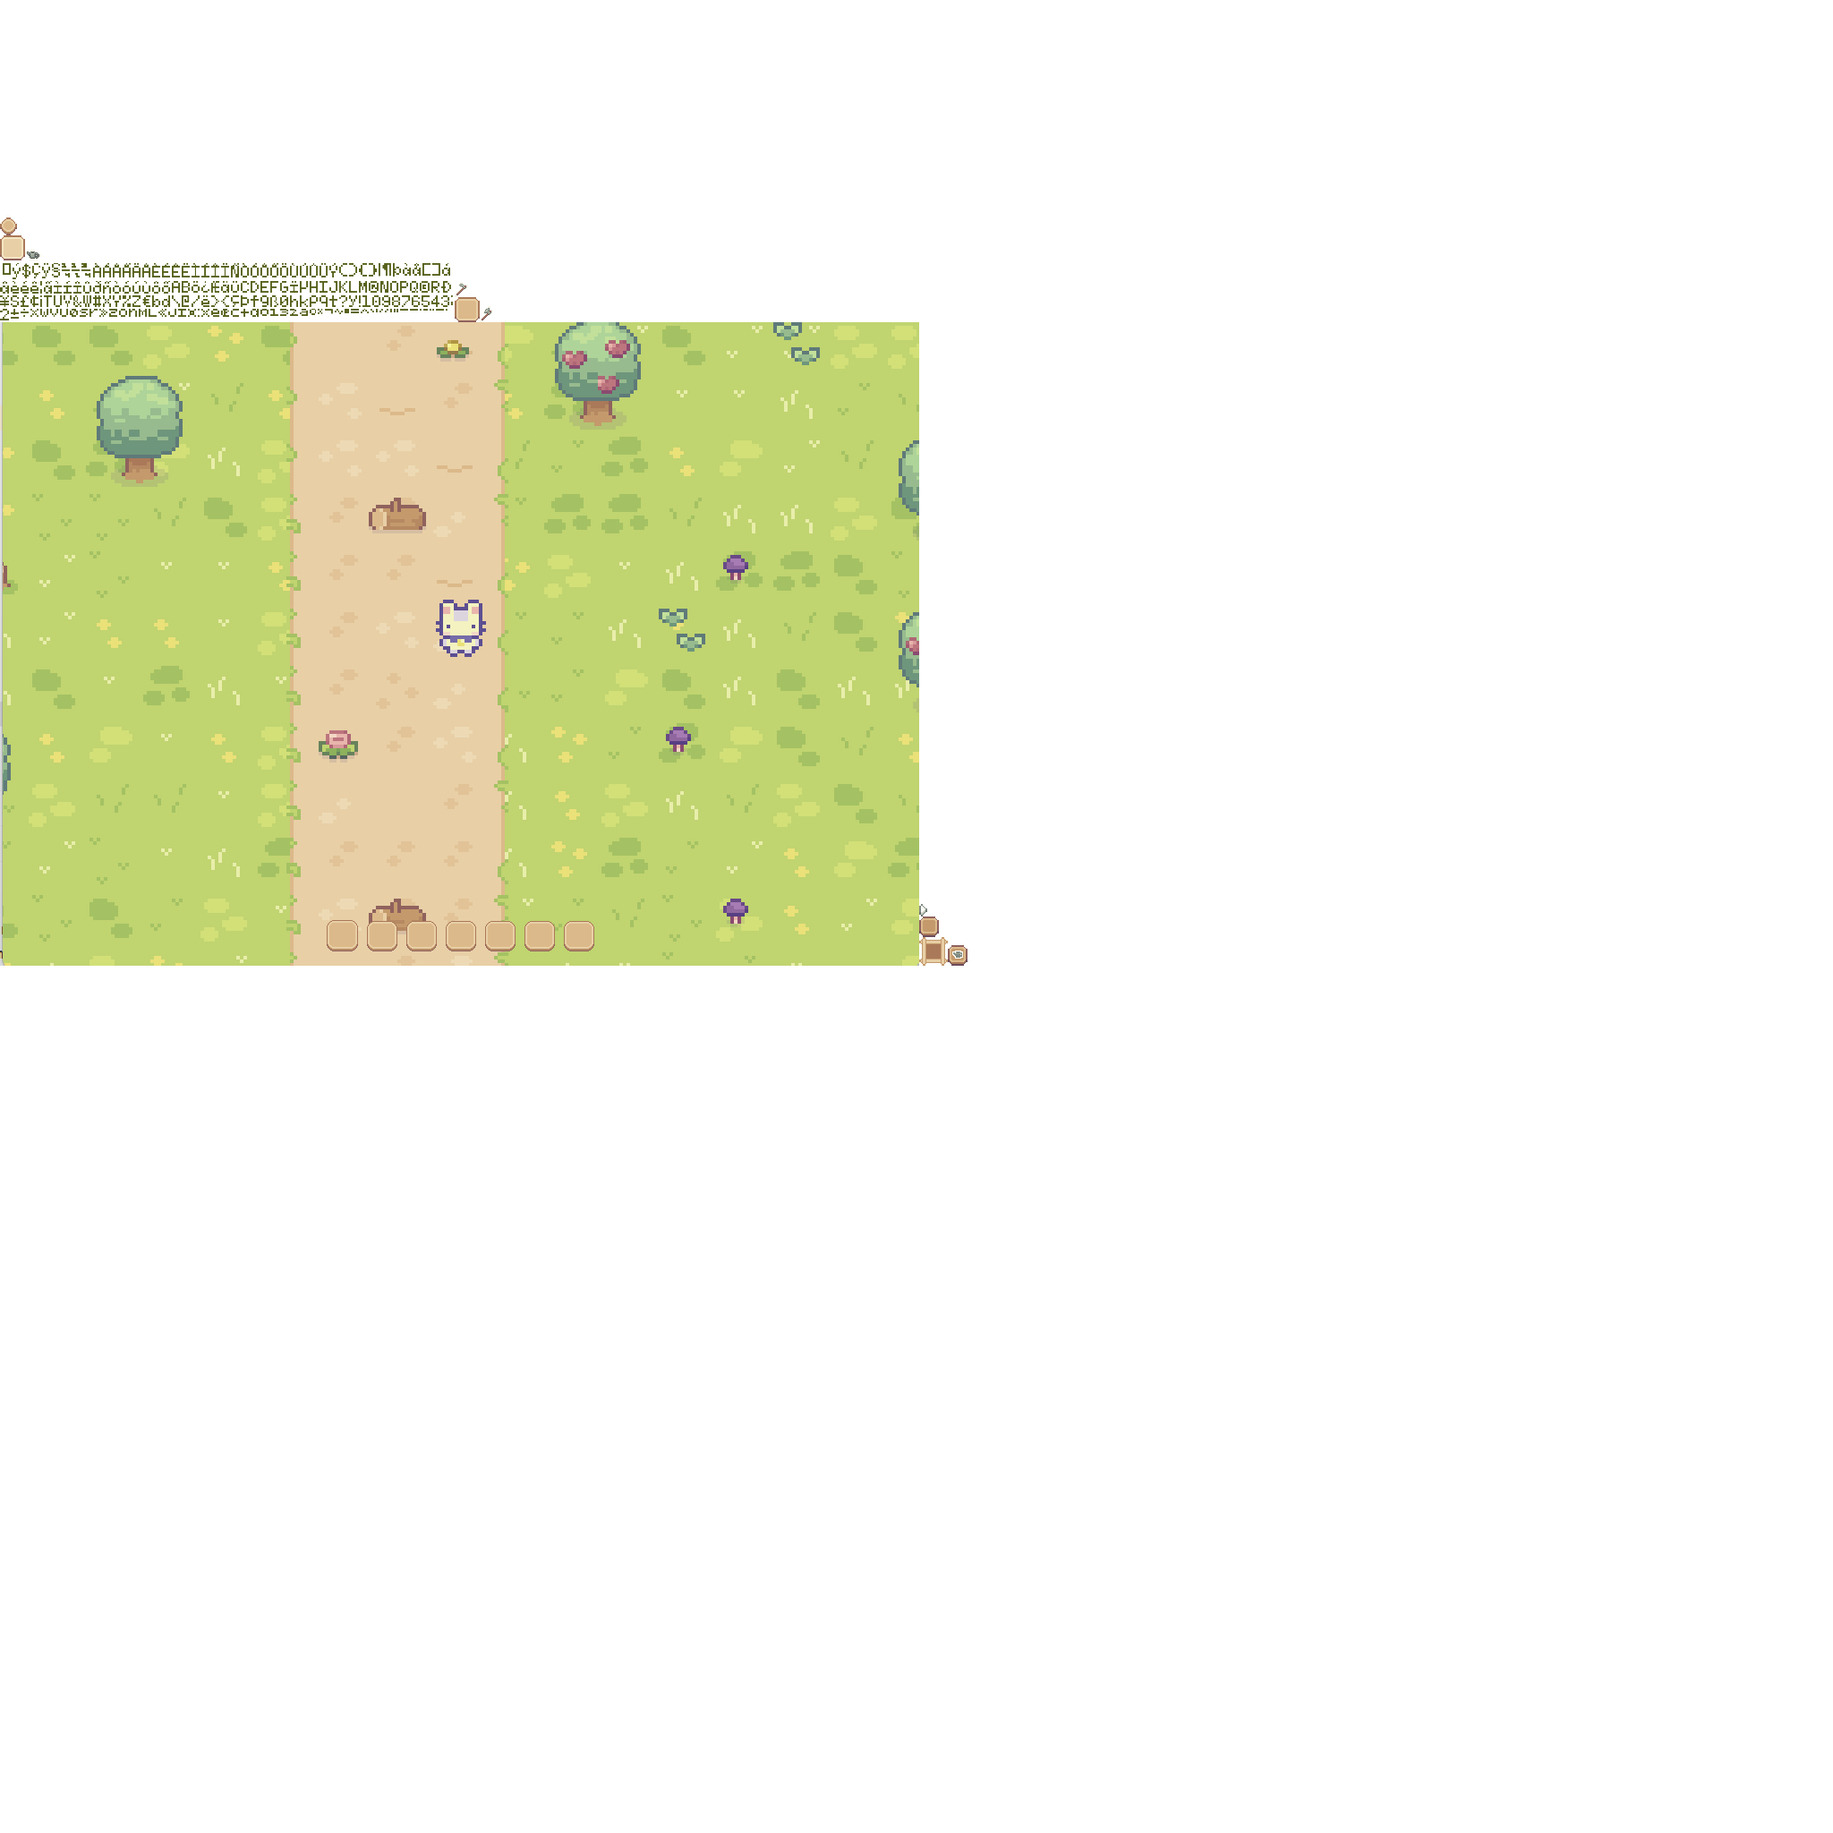
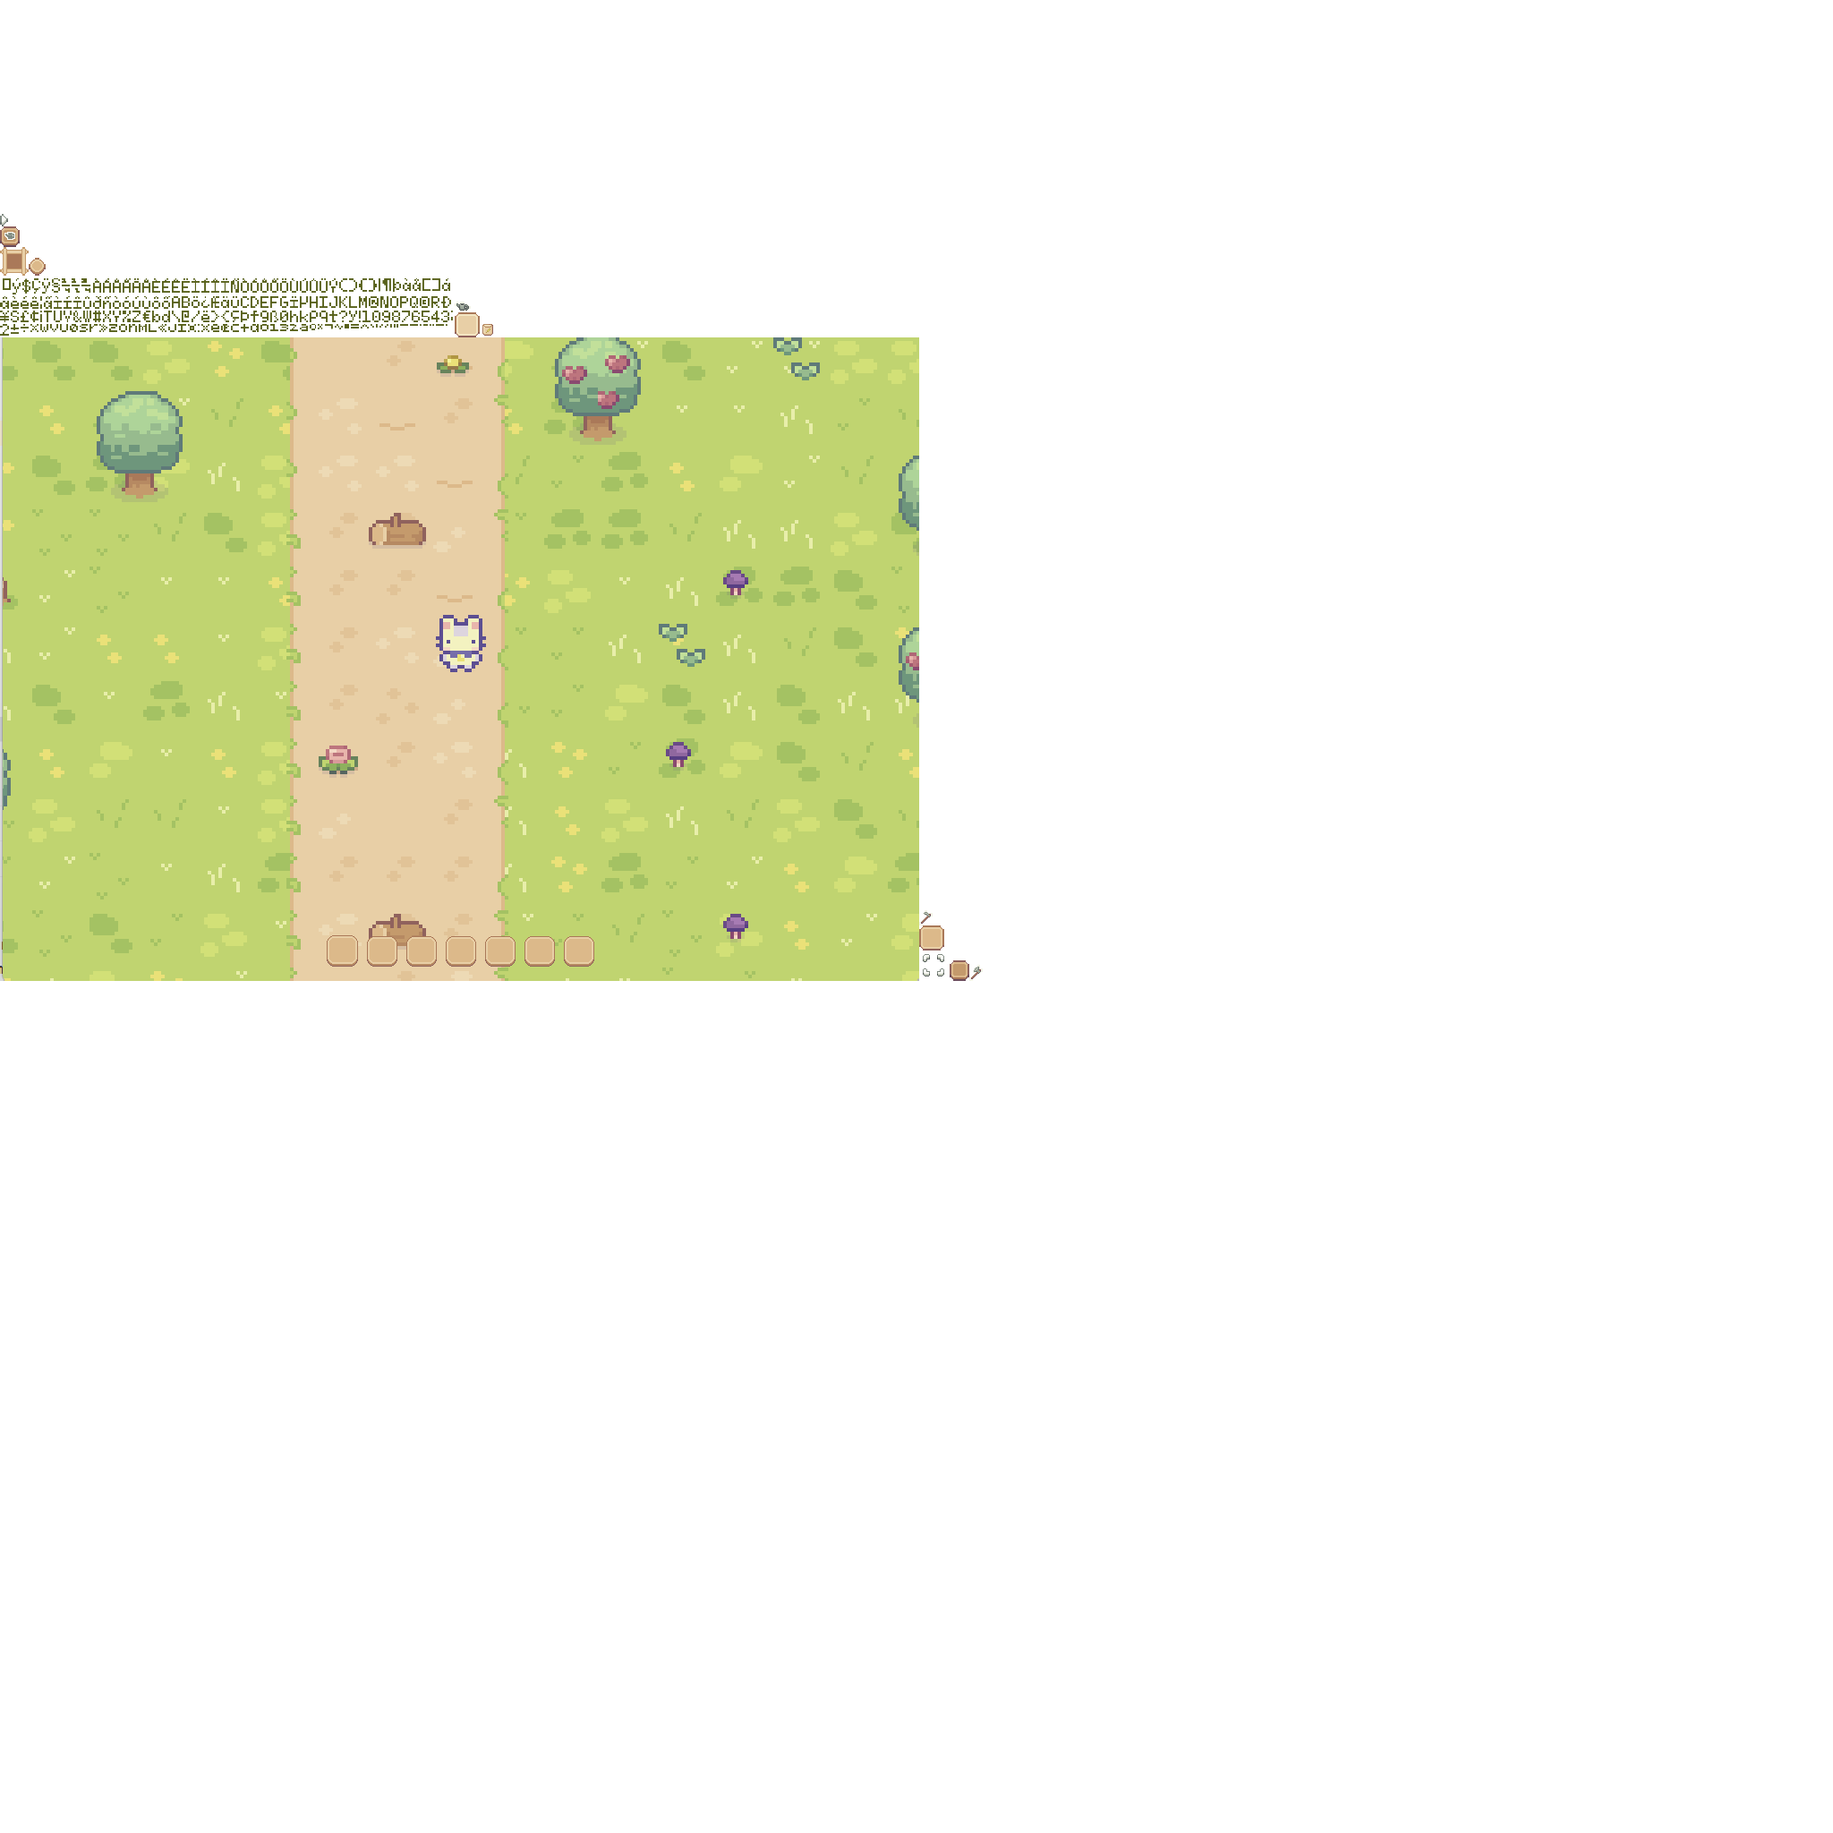
feat: link action with equipment ui

Changed region(s): [[0.0, 0.125, 0.5312, 0.5625], [0.0, 0.3125, 0.125, 0.4375]]

diff --git a/core/src/com/pgj/s2bplantsimulator/model/Player.java b/core/src/com/pgj/s2bplantsimulator/model/Player.java
@@ -13,6 +13,7 @@ import com.pgj.s2bplantsimulator.controller.TileMapHelper;
 import com.pgj.s2bplantsimulator.inventory.Chest;
 import com.pgj.s2bplantsimulator.inventory.Equipment;
 
+import com.pgj.s2bplantsimulator.inventory.Item;
 import com.pgj.s2bplantsimulator.screens.MainGame;
 import com.pgj.s2bplantsimulator.ultis.ResourceLoader;
 
@@ -23,7 +24,7 @@ public class Player extends Sprite {
 
     public enum Direction {UP, DOWN, LEFT, RIGHT, UPLEFT, UPRIGHT, DOWNLEFT, DOWNRIGHT}
 
-    public String currentItem;
+    public Item currentItem;
     public Direction direction;
     public State currentState;
     public State previousState;
@@ -46,7 +47,6 @@ public class Player extends Sprite {
 
 
     public Player(MainGame gameScreen, Body body) {
-        this.currentItem = "hoe";
         this.world = gameScreen.world;
         this.tileMapHelper = new TileMapHelper(gameScreen);
         equipment = new Equipment(gameScreen);
@@ -106,6 +106,7 @@ public class Player extends Sprite {
         checkUserInput();
         setPosition(body.getPosition().x - getWidth() / 2, body.getPosition().y - getHeight() / 2);
         setRegion(getFrame(dt));
+        currentItem = equipment.getCurrentItem();
     }
 
     public TextureRegion getFrame(float dt) {
@@ -178,55 +179,49 @@ public class Player extends Sprite {
             currentState = State.IDLE;
             direction = Direction.DOWN;
         }
-        if (Gdx.input.isKeyPressed(Input.Keys.NUM_1)) {
-            currentItem = "hoe";
-        }
-        if (Gdx.input.isKeyPressed(Input.Keys.NUM_2)) {
-            currentItem = "water";
-            System.out.println("water");
-        }
-        if (Gdx.input.isKeyPressed(Input.Keys.NUM_3)) {
-            currentItem = "seed";
-        }
         if (Gdx.input.isKeyPressed(Input.Keys.SPACE)) {
-            if (currentItem.equals("hoe")) {
-                for (Vector4 dirtPos : MainGame.dirtPositionList) {
-                    if (body.getPosition().x >= dirtPos.x && body.getPosition().x <= dirtPos.x + 0.5 && body.getPosition().y >= dirtPos.y && body.getPosition().y <= dirtPos.y + 0.5) {
-                        currentState = State.HOE;
-                        plantDirt = new Dirt(dirtPos.x, dirtPos.y, dirtPos.z, dirtPos.w, "dirt.png", true, false, false);
-                        plantDirt.isDirt = true;
-                        MainGame.plantDirtList.add(plantDirt);
+            if(currentItem != null){
+                System.out.println("Current Item: " +  currentItem.getName());
+                if (currentItem.equals("Hoe")) {
+                    for (Vector4 dirtPos : MainGame.dirtPositionList) {
+                        if (body.getPosition().x >= dirtPos.x && body.getPosition().x <= dirtPos.x + 0.5 && body.getPosition().y >= dirtPos.y && body.getPosition().y <= dirtPos.y + 0.5) {
+                            currentState = State.HOE;
+                            plantDirt = new Dirt(dirtPos.x, dirtPos.y, dirtPos.z, dirtPos.w, "dirt.png", true, false, false);
+                            plantDirt.isDirt = true;
+                            MainGame.plantDirtList.add(plantDirt);
+                        }
                     }
-                }
-            } else if (currentItem.equals("water")) {
-                if (!MainGame.plantDirtList.isEmpty()) {
-                    for (Dirt dirt : MainGame.plantDirtList) {
-                        if (body.getPosition().x >= dirt.xDirt && body.getPosition().x <= dirt.xDirt + 0.5 && body.getPosition().y >= dirt.yDirt && body.getPosition().y <= dirt.yDirt + 0.5) {
-                            if (dirt.isWatered == false) {
-                                dirt.isWatered = true;
-                                currentState = State.WATER;
-                                plantDirt = new Dirt(dirt.xDirt, dirt.yDirt, dirt.height, dirt.width, "water.png", dirt.isDirt, true, dirt.isPlanted);
-                                MainGame.soilList.add(plantDirt);
+                } else if (currentItem.equals("Watering Pot")) {
+                    if (!MainGame.plantDirtList.isEmpty()) {
+                        for (Dirt dirt : MainGame.plantDirtList) {
+                            if (body.getPosition().x >= dirt.xDirt && body.getPosition().x <= dirt.xDirt + 0.5 && body.getPosition().y >= dirt.yDirt && body.getPosition().y <= dirt.yDirt + 0.5) {
+                                if (dirt.isWatered == false) {
+                                    dirt.isWatered = true;
+                                    currentState = State.WATER;
+                                    plantDirt = new Dirt(dirt.xDirt, dirt.yDirt, dirt.height, dirt.width, "water.png", dirt.isDirt, true, dirt.isPlanted);
+                                    MainGame.soilList.add(plantDirt);
+                                }
+                            }
+                        }
+                    }
+                } else if (currentItem.equals("Corn Seed")) { // Tạm thời mới trồng trước cây ngô
+                    if (!MainGame.plantDirtList.isEmpty()) {
+                        for (Dirt dirt : MainGame.plantDirtList) {
+                            if (body.getPosition().x >= dirt.xDirt && body.getPosition().x <= dirt.xDirt + 0.5 && body.getPosition().y >= dirt.yDirt && body.getPosition().y <= dirt.yDirt + 0.5) {
+                                if (dirt.isPlanted == false) {
+                                    dirt.isPlanted = true;
+                                    Seed seed = new Seed(dirt.xDirt, dirt.yDirt, dirt.height, dirt.width, "seed.png", "corn");
+                                    MainGame.seedList.add(seed);
+                                }
                             }
                         }
                     }
                 }
-            } else if (currentItem.equals("seed")) { // Tạm thời mới trồng trước cây ngô
-                if (!MainGame.plantDirtList.isEmpty()) {
-                    for (Dirt dirt : MainGame.plantDirtList) {
-                        if (body.getPosition().x >= dirt.xDirt && body.getPosition().x <= dirt.xDirt + 0.5 && body.getPosition().y >= dirt.yDirt && body.getPosition().y <= dirt.yDirt + 0.5) {
-                            if (dirt.isPlanted == false) {
-                                dirt.isPlanted = true;
-                                Seed seed = new Seed(dirt.xDirt, dirt.yDirt, dirt.height, dirt.width, "seed.png", "corn");
-                                MainGame.seedList.add(seed);
-                            }
-                        }
-                    }
-                }
+
+
+            }
             }
 
-
-        }
 
         velX = 0;
         velY = 0;

diff --git a/core/src/com/pgj/s2bplantsimulator/view/PlayerEquipmentUI.java b/core/src/com/pgj/s2bplantsimulator/view/PlayerEquipmentUI.java
@@ -1,18 +1,30 @@
 package com.pgj.s2bplantsimulator.view;
 
 import com.badlogic.gdx.Gdx;
+import com.badlogic.gdx.Input;
+import com.badlogic.gdx.scenes.scene2d.Actor;
 import com.badlogic.gdx.scenes.scene2d.Touchable;
 import com.badlogic.gdx.scenes.scene2d.ui.Cell;
 import com.badlogic.gdx.scenes.scene2d.ui.Container;
+import com.badlogic.gdx.scenes.scene2d.ui.Image;
 import com.badlogic.gdx.utils.Align;
+import com.pgj.s2bplantsimulator.inventory.Equipment;
 import com.pgj.s2bplantsimulator.inventory.Item;
+import com.pgj.s2bplantsimulator.inventory.Tool;
+import com.pgj.s2bplantsimulator.model.MovingImage;
 import com.pgj.s2bplantsimulator.screens.MainGame;
+import com.pgj.s2bplantsimulator.ultis.StageUltis;
 
 
 public class PlayerEquipmentUI extends ItemHolderUI {
+    private Equipment equipment;
+    private int currentItemIndex;
+    private Image selectedOverlay;
     public PlayerEquipmentUI(MainGame mainGame){
         super(mainGame);
-        setItems(mainGame.getPlayer().getEquipment().getItems());
+        equipment = mainGame.getPlayer().getEquipment();
+
+        setItems(equipment.getItems());
     }
     private final float PANEL_WIDTH = 420;
     private final float PANEL_HEIGHT = 70;
@@ -26,22 +38,27 @@ public class PlayerEquipmentUI extends ItemHolderUI {
     @Override
 
     public void initUI(){
+
+
         getItemPanel().setName("Picker");
         getItemPanel().setTouchable(Touchable.enabled);
         getItemPanel().setFillParent(false);
         getItemPanel().align(Align.center);
-        getItemPanel().setBackground(super.getSkin().getDrawable("window"));
+        getItemPanel().setBackground(getSkin().getDrawable("window"));
         getItemPanel().setBounds(Gdx.graphics.getWidth() / 2 - PANEL_WIDTH / 2, PANEL_BOTTOM_PAD, PANEL_WIDTH, PANEL_HEIGHT);
 
         for(int i = 0; i < 6; i++){
             Container imageContainer = new Container();
-            imageContainer.setBackground(super.getSkin().getDrawable("round_button"));
+            imageContainer.setBackground(getSkin().getDrawable("round_button"));
             imageContainer.fill();
-            super.getItemPanel().add(imageContainer).pad(8.0f).size(50.0f);
+            getItemPanel().add(imageContainer).pad(8.0f).size(50.0f);
         }
         for(Cell cell : super.getItemPanel().getCells()) {
             Container imageContainer = (Container) cell.getActor();
         }
+        selectedOverlay = new Image(getSkin().getDrawable("selected_overlay"));
+        selectedOverlay.setBounds(0, 0, 50, 50);
+        getStage().addActor(selectedOverlay);
     }
     public void initEquipmentItem(){
         for(Item item  : getItems()){
@@ -59,6 +76,21 @@ public class PlayerEquipmentUI extends ItemHolderUI {
 
     public void resize(float width, float height){
         super.getItemPanel().setPosition(width / 2 - PANEL_WIDTH / 2, PANEL_BOTTOM_PAD);
+    }
+    public void update(float dt){
+        super.update(dt);
+        if(getItems()[currentItemIndex] == null){
+            equipment.setCurrentItem(null);
+        }
+        for(int i = 0; i < 6; i++){
+            if(Gdx.input.isKeyJustPressed(Input.Keys.NUM_1 + i)){
+                equipment.setCurrentItem(getItems()[i]);
+                MovingImage movingImage = (MovingImage) ((Container) getItemPanel().getCells().get(i).getActor()).getActor();
+                selectedOverlay.setPosition(StageUltis.getInstance().getStagePos(getItemPanel().getCells().get(i).getActor()).x + 1
+                        , StageUltis.getInstance().getStagePos(getItemPanel().getCells().get(i).getActor()).y);
+                currentItemIndex = i;
+            }
+        }
     }
 
 

diff --git a/core/src/com/pgj/s2bplantsimulator/view/ItemHolderUI.java b/core/src/com/pgj/s2bplantsimulator/view/ItemHolderUI.java
@@ -1,15 +1,18 @@
 package com.pgj.s2bplantsimulator.view;
 
 import com.badlogic.gdx.Gdx;
+import com.badlogic.gdx.Input;
 import com.badlogic.gdx.scenes.scene2d.Stage;
 import com.badlogic.gdx.scenes.scene2d.ui.Container;
 import com.badlogic.gdx.scenes.scene2d.ui.Skin;
 import com.badlogic.gdx.scenes.scene2d.ui.Table;
 import com.pgj.s2bplantsimulator.inventory.Item;
 import com.pgj.s2bplantsimulator.model.MovingImage;
+import com.pgj.s2bplantsimulator.model.Player;
 import com.pgj.s2bplantsimulator.screens.MainGame;
 
 public abstract class ItemHolderUI implements UI {
+    private String currentItem;
     private Item[] items;
     private Table itemPanel;
     private HUD hud;
@@ -22,6 +25,9 @@ public abstract class ItemHolderUI implements UI {
         this.stage = hud.getStage();
         stage.addActor(itemPanel);
     }
+    public String getCurrentItem(){
+        return currentItem;
+    }
     @Override
     public void update(float dt) {
         for(int i = 0; i < items.length; i++){
@@ -33,6 +39,7 @@ public abstract class ItemHolderUI implements UI {
                 items[i] = movingImage.getItem();
             }
         }
+
     }
 
 

diff --git a/core/src/com/pgj/s2bplantsimulator/loader/EquipmentsLoader.java b/core/src/com/pgj/s2bplantsimulator/loader/EquipmentsLoader.java
@@ -5,7 +5,9 @@ import com.badlogic.gdx.scenes.scene2d.ui.Image;
 import com.badlogic.gdx.scenes.scene2d.ui.Skin;
 import com.pgj.s2bplantsimulator.inventory.Item;
 import com.pgj.s2bplantsimulator.inventory.Tool;
+import com.pgj.s2bplantsimulator.model.EquipmentSeed;
 import com.pgj.s2bplantsimulator.model.MovingImage;
+import com.pgj.s2bplantsimulator.model.Seed;
 import com.pgj.s2bplantsimulator.screens.MainGame;
 
 import java.util.ArrayList;
@@ -28,6 +30,7 @@ public class EquipmentsLoader {
         items[0] = new Tool("Hoe",  new Image(skin.getDrawable("hoe")), this.mainGame);
         items[1] = (new Tool("Watering Pot",  new Image(skin.getDrawable("water_pot")), this.mainGame));
         items[2] = (new Tool("Axe",  new Image(skin.getDrawable("axe")), this.mainGame));
+        items[3] = new EquipmentSeed("Corn Seed", new Image(skin.getDrawable("corn_seed_equipment")), this.mainGame);
         return items;
     }
 }

diff --git a/core/src/com/pgj/s2bplantsimulator/model/EquipmentSeed.java b/core/src/com/pgj/s2bplantsimulator/model/EquipmentSeed.java
@@ -1,0 +1,13 @@
+package com.pgj.s2bplantsimulator.model;
+
+import com.badlogic.gdx.scenes.scene2d.ui.Image;
+import com.pgj.s2bplantsimulator.inventory.Item;
+import com.pgj.s2bplantsimulator.screens.MainGame;
+
+public class EquipmentSeed extends Item {
+    public EquipmentSeed(String name, Image image, MainGame mainGame){
+        super.setName(name);
+        super.setMovingImage(image);
+        super.setMainGame(mainGame);
+    }
+}

diff --git a/core/src/com/pgj/s2bplantsimulator/inventory/Item.java b/core/src/com/pgj/s2bplantsimulator/inventory/Item.java
@@ -8,6 +8,9 @@ public abstract class Item extends Sprite {
     private String name;
     private MainGame mainGame;
     private MovingImage movingImage;
+    public boolean equals(String name){
+        return this.name == name;
+    }
 
     public MainGame getMainGame() {
         return mainGame;

diff --git a/core/src/com/pgj/s2bplantsimulator/inventory/Equipment.java b/core/src/com/pgj/s2bplantsimulator/inventory/Equipment.java
@@ -19,8 +19,8 @@ public class Equipment {
         return items;
     }
 
-    public void setCurrentItem(Tool tool) {
-        currentItem = tool;
+    public void setCurrentItem(Item item) {
+        currentItem = item;
     }
 
     public Item getCurrentItem() {
